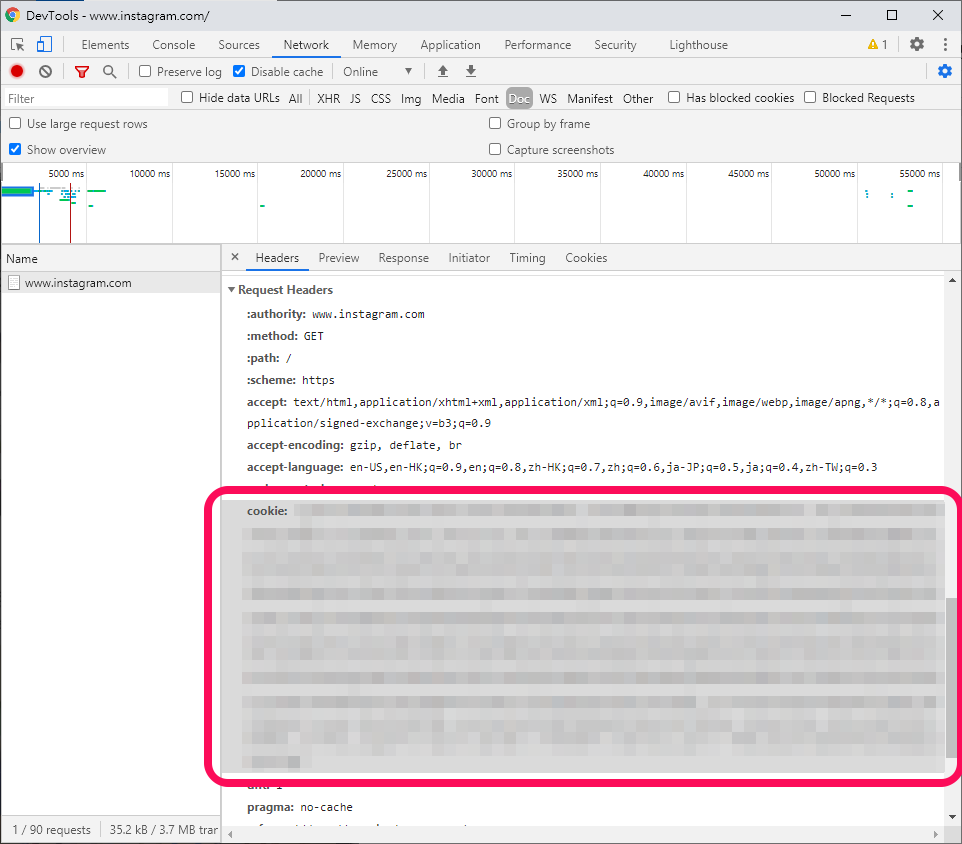
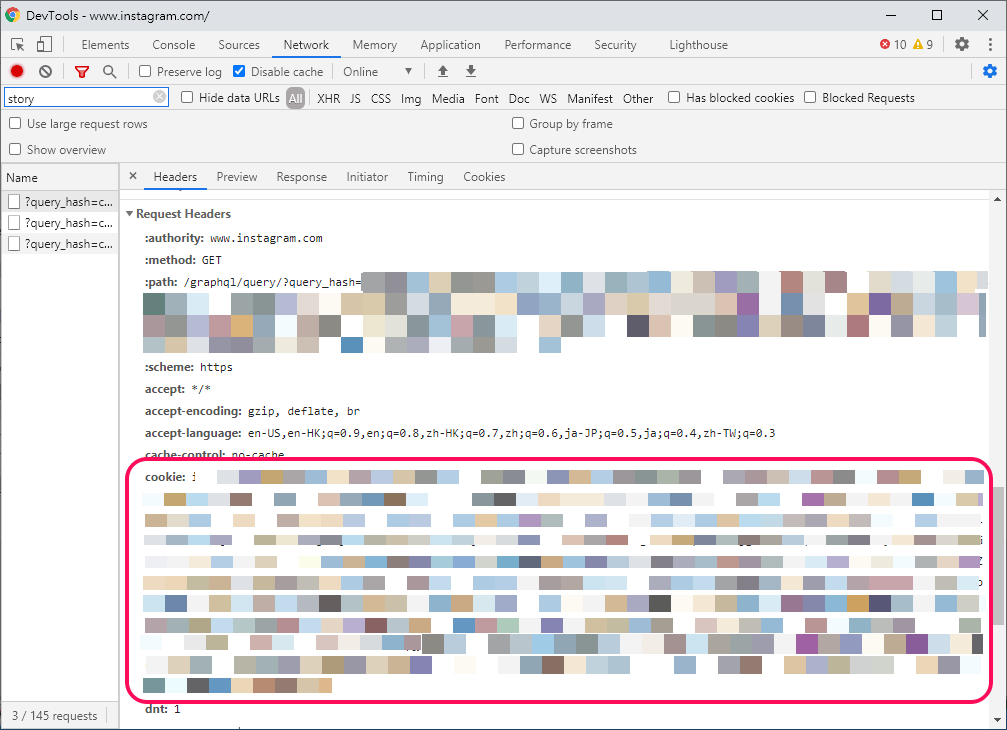
Improved: The guide to find your query_hash and COOKIE

diff --git a/README.md b/README.md
@@ -39,15 +39,16 @@ Now you can test the application by passing a url like this, `https://script.goo
 
 `ig_user_id` is necessary to query the data of the target Instagram user from the official web API. You can obtain the ID with the username by using [the ID finder powered by The Code of a Ninja](https://codeofaninja.com/tools/find-instagram-user-id). The application will track and download the photos and videos to your Google Drive folder, if it finds any new IG stories from the target Instagram account.
 
-## How to find your IG cookie
+## How to find your `query_hash` and `COOKIE` pair
 
 1. Visit `www.instagram.com` and login to your account using a desktop browser, such as Chrome or Firefox.
 2. Open the DevTool by pressing **F12** or choose **Inspect** from the right-click menu on the page.
-3. Open the Network tab, then reload the page.
-4. Select `www.instagram.com` from the list of request items and explore its Headers.
-5. Scroll to the **Request Header** section, grab the value of **cookie** as the picture below.
-
-![Find Instagram cookie using Chrome DevTools](/docs/images/find-your-instagram-cookie-with-devtools.png)
+3. Open the Network tab, then enter `story` in the filter.
+4. Go back to the Instagram page and click on an IG story.
+5. While the stories are playing on the screen, new items named `?query_hash=...` will iteratively added to the list of request items.
+6. Click on one of the story query items to explore its Headers.
+7. Scroll to the **Query String Parameters** section, grab the value of **query_hash** as the picture below. ![Find Instagram query_hash using Chrome DevTools](/docs/images/find-your-instagram-story-query_hash.png)
+8. Scroll to the **Request Header** section, grab the value of **cookie** in the same header tab as the picture below. ![Find Instagram cookie using Chrome DevTools](/docs/images/find-your-instagram-cookie-with-devtools.png)
 
 ## How to set up your Status Badges
 
